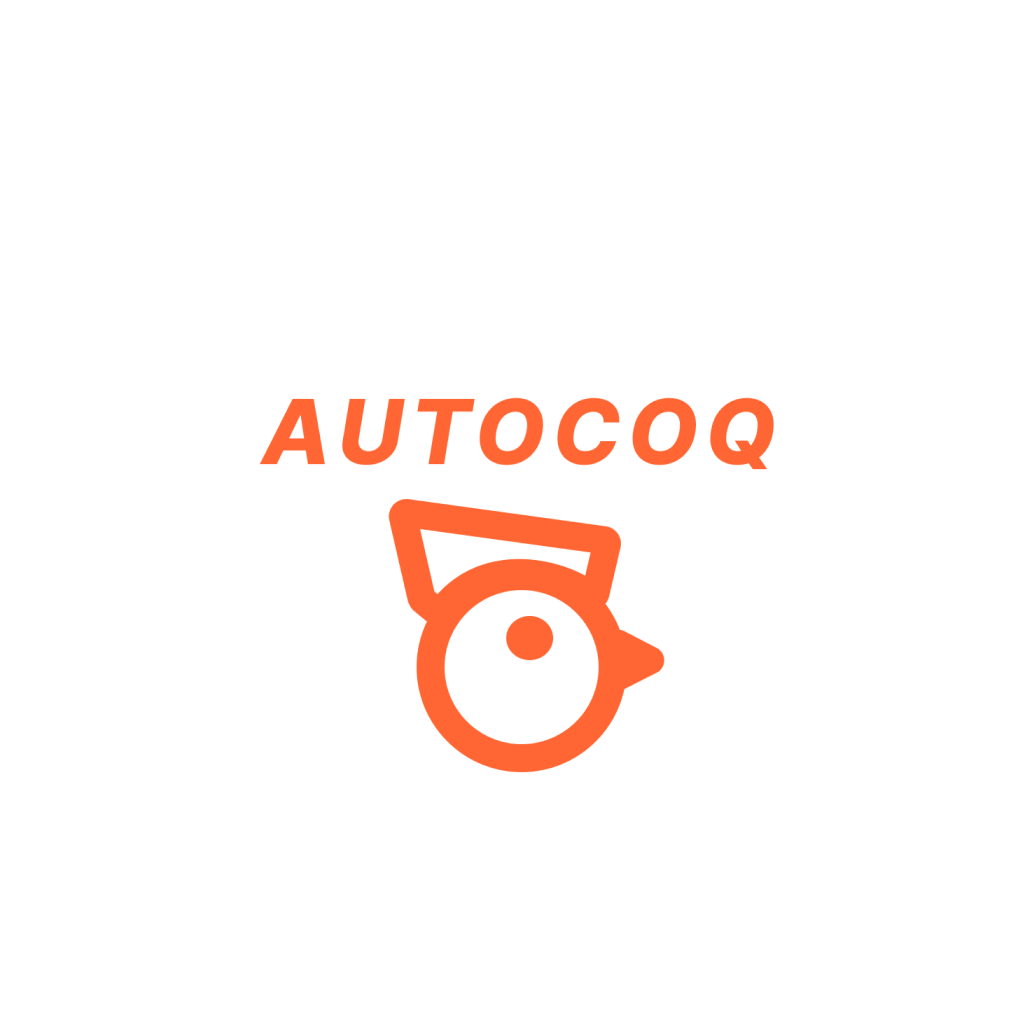
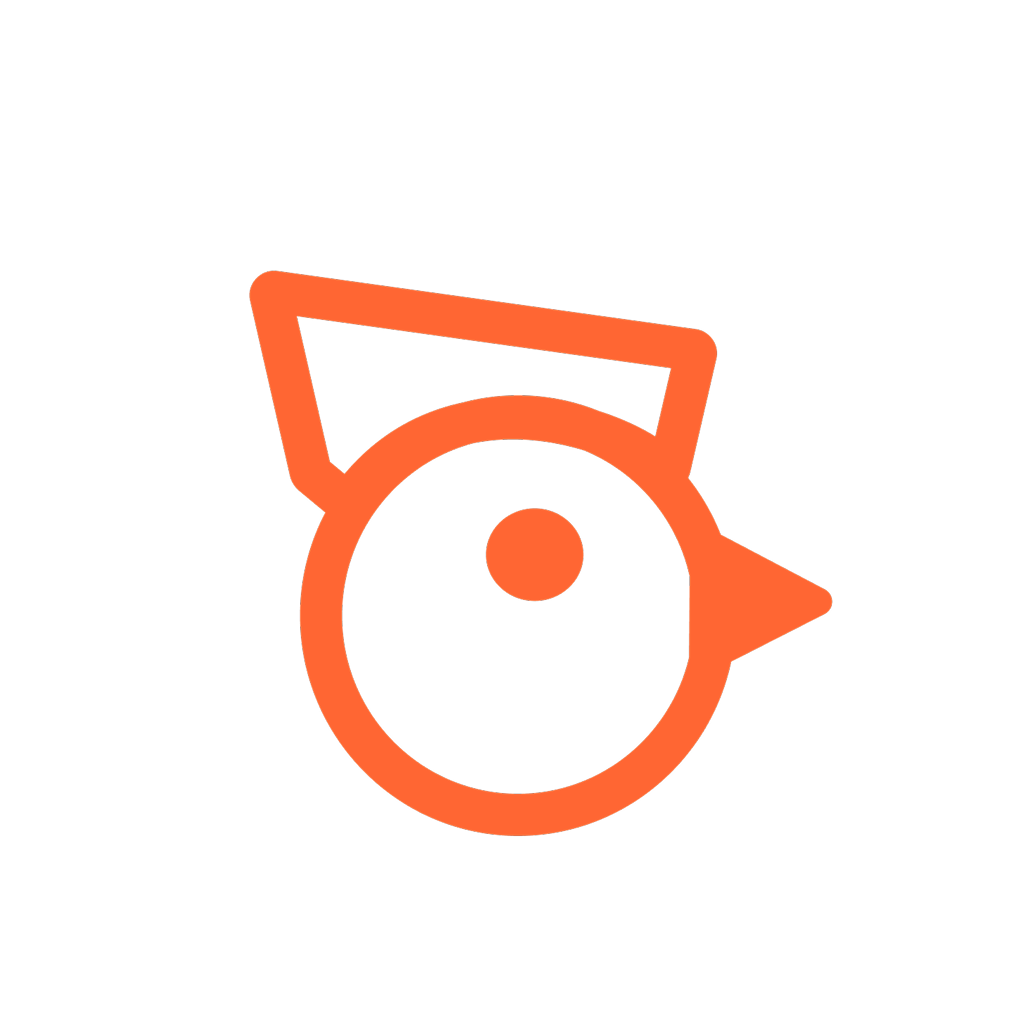
splash imagehas been updated

Changed region(s): [[0.2188, 0.25, 0.8125, 0.8438]]

diff --git a/app.config.js b/app.config.js
@@ -31,6 +31,11 @@ export default () => ({
       ITSAppUsesNonExemptEncryption: false,
     },
     googleServicesFile: "./GoogleService-Info.plist",
+    splash: {
+      image: "./assets/images/splash-ios.png",
+      resizeMode: "cover",
+      backgroundColor: "#ffffff",
+    },
   },
   android: {
     versionCode: 2,
